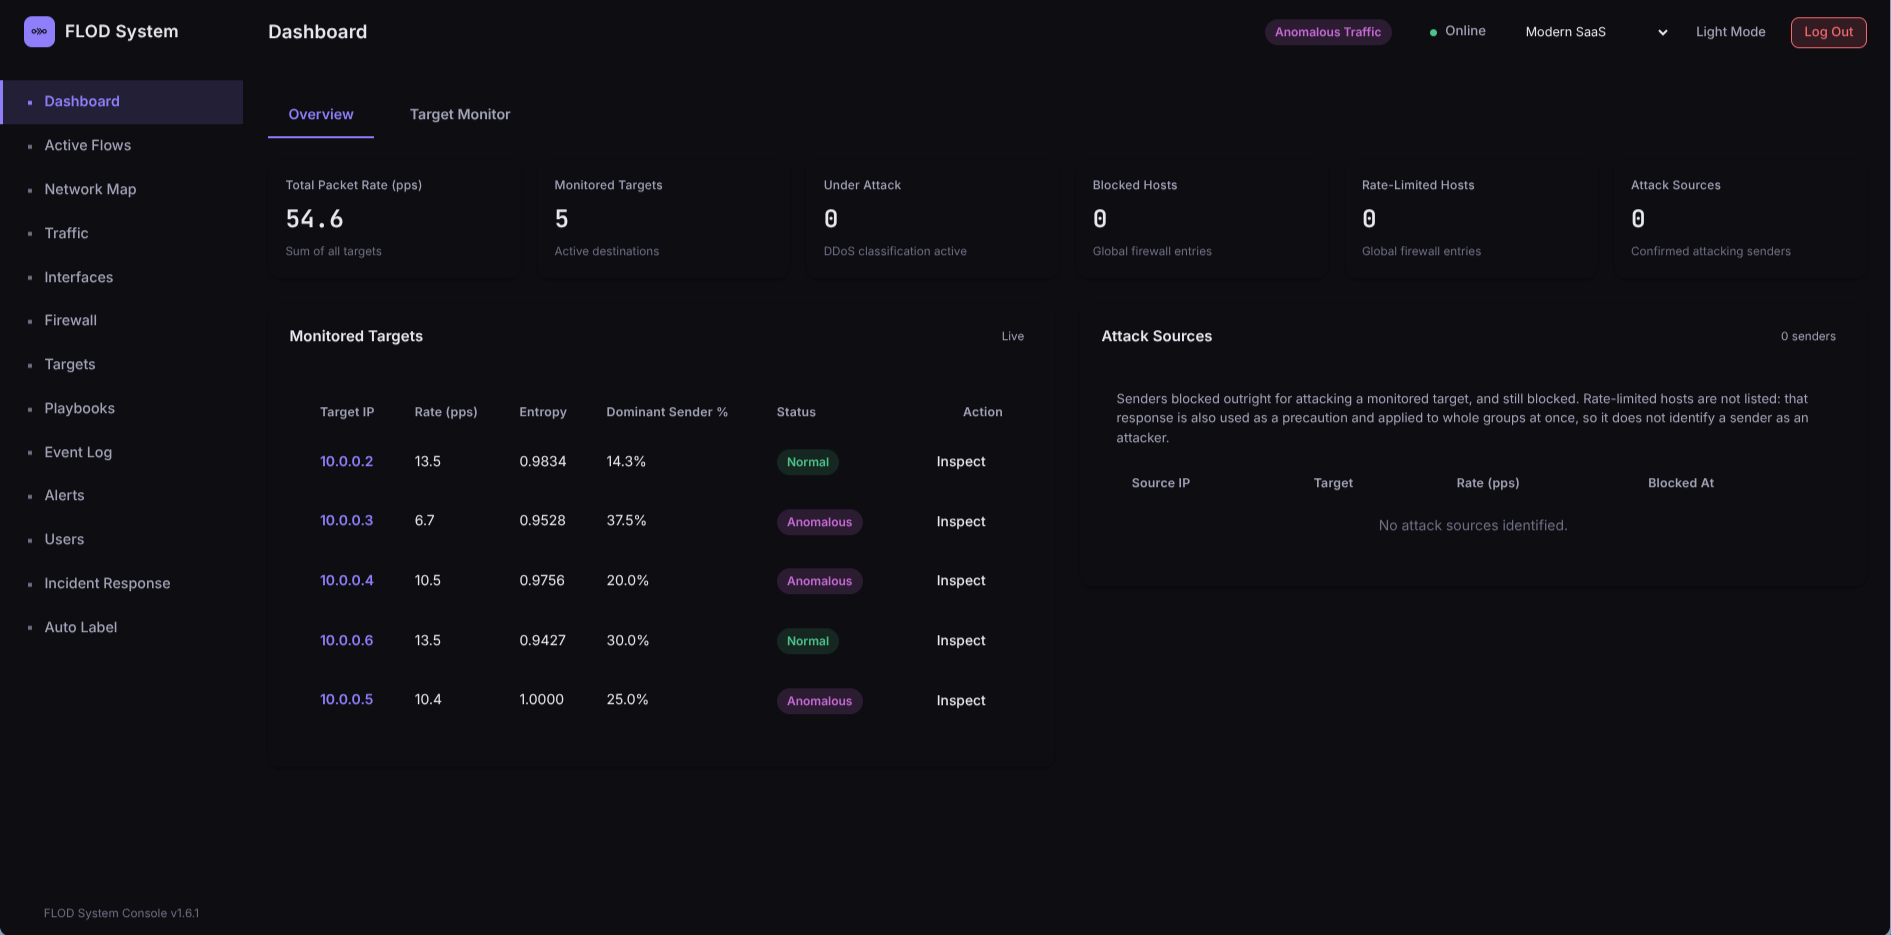
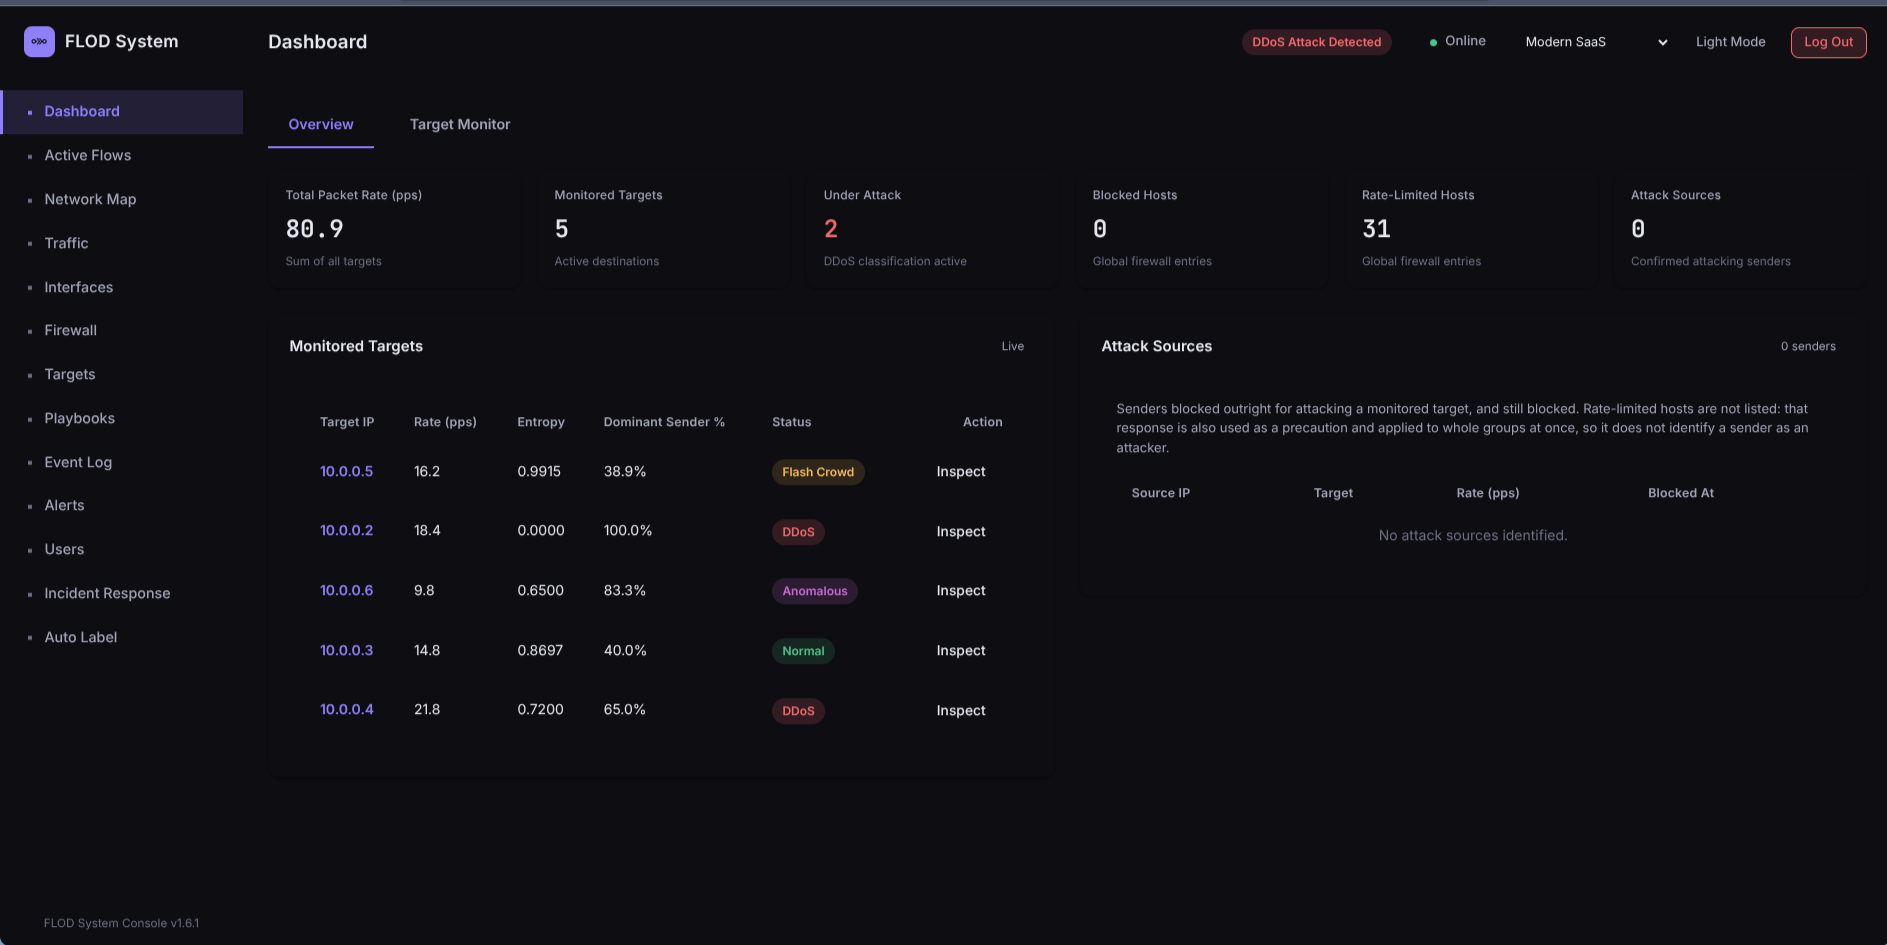
docs(V10): replace the README overview screenshot with one showing all four classes
The project owner sent a screenshot with all five targets covering
Normal, Flash Crowd, DDoS, and Anomalous at once, more representative
of the dashboard than the previous two-class screenshot. Caption
updated to match.

diff --git a/README.md b/README.md
@@ -9,7 +9,7 @@ An adaptive two stage Layer 4 volumetric DDoS mitigation gateway.
 **Project:** Adaptive Two Stage Framework for Near Real Time Layer 4 Volumetric
 DDoS Mitigation Using Behavioral Traffic Analysis
 
-![The FLOD dashboard overview, five protected targets, two reading Normal and three flagged Anomalous](docs/images/dashboard-overview.png)
+![The FLOD dashboard overview, five protected targets covering all four classification states at once: Normal, Flash Crowd, DDoS, and Anomalous](docs/images/dashboard-overview.png)
 
 
 ## What It Does
